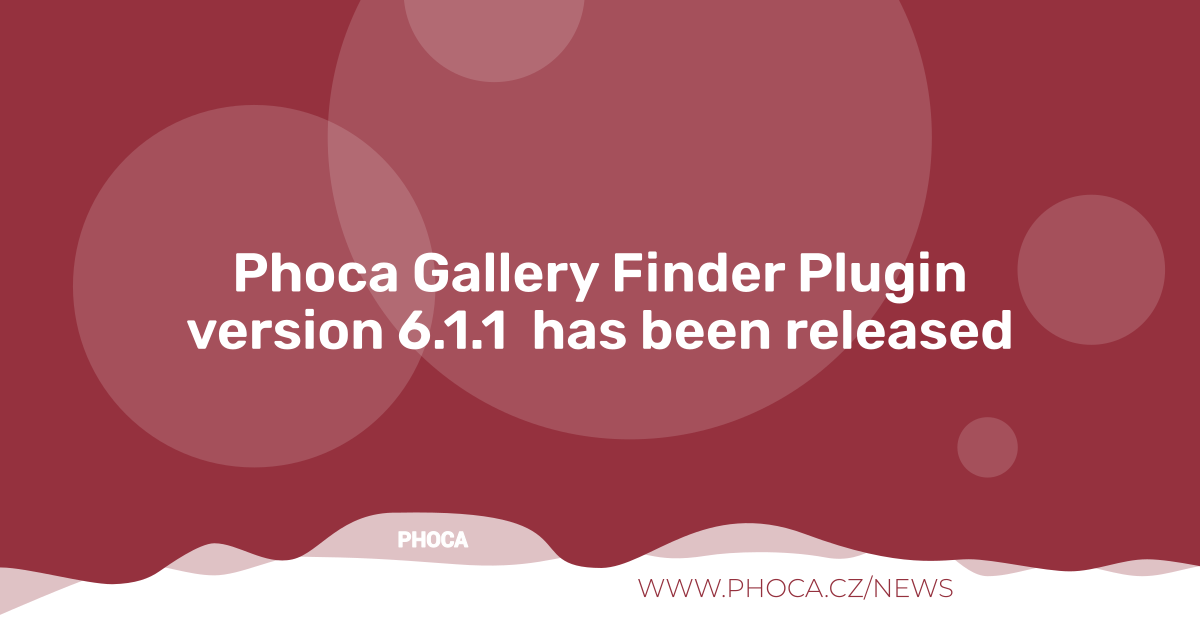
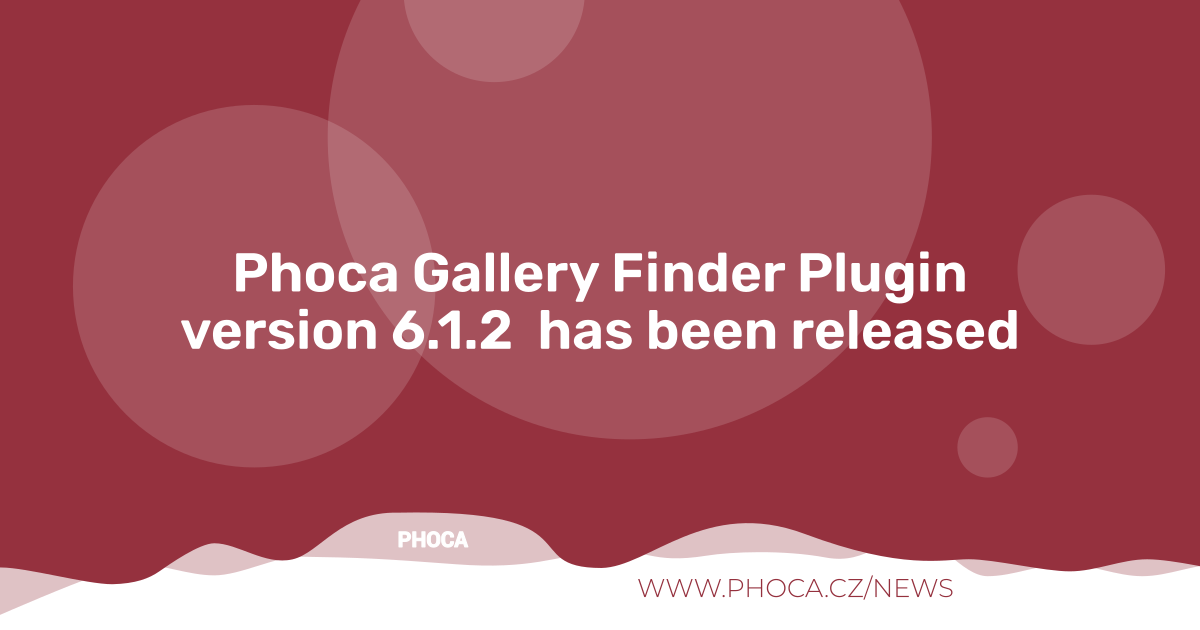
6.1.2

Changed region(s): [[0.1542, 0.4825, 0.8633, 0.573]]

diff --git a/phocagalleryimage.php b/phocagalleryimage.php
@@ -66,11 +66,12 @@ class PlgFinderPhocagalleryImage extends Adapter
 		if ($context == 'com_phocagallery.phocagalleryimg' || $context == 'com_phocagallery.img' )
 		{
 			// Check if the access levels are different
-			if (!$isNew && $this->old_access != $row->access)
+            // No access for images, it is based on category access
+			/*if (!$isNew && $this->old_access != $row->access)
 			{
 				// Process the change.
 				$this->itemAccessChange($row);
-			}
+			}*/
 
 			// Reindex the item
 			$this->reindex($row->id);
@@ -96,7 +97,8 @@ class PlgFinderPhocagalleryImage extends Adapter
 		if ($context == 'com_phocagallery.phocagalleryimg' || $context == 'com_phocagallery.img' ) {
             // Query the database for the old access level if the item isn't new
             if (!$isNew) {
-                $this->checkItemAccess($row);
+                // Images has no access rights, they are based on category access rights
+                //$this->checkItemAccess($row);
             }
         }
 

diff --git a/README.MD b/README.MD
@@ -63,14 +63,12 @@ If you need additional information beyond this GitHub repository, further docume
 
 - [Joomla! 2.5 Demo](https://www.phoca.cz/joomlademo/)
 
-### Version (Joomla! 3.x - no longer supported)
-4.4.0
 ### Version (Joomla! 4.x - no longer supported)
 4.5.2
 ### Version (Joomla! 5.x - no longer supported)
 5.0.3
 ### Version (Joomla! 6.x)
-6.1.1
+6.1.2
 
 ### License
 
